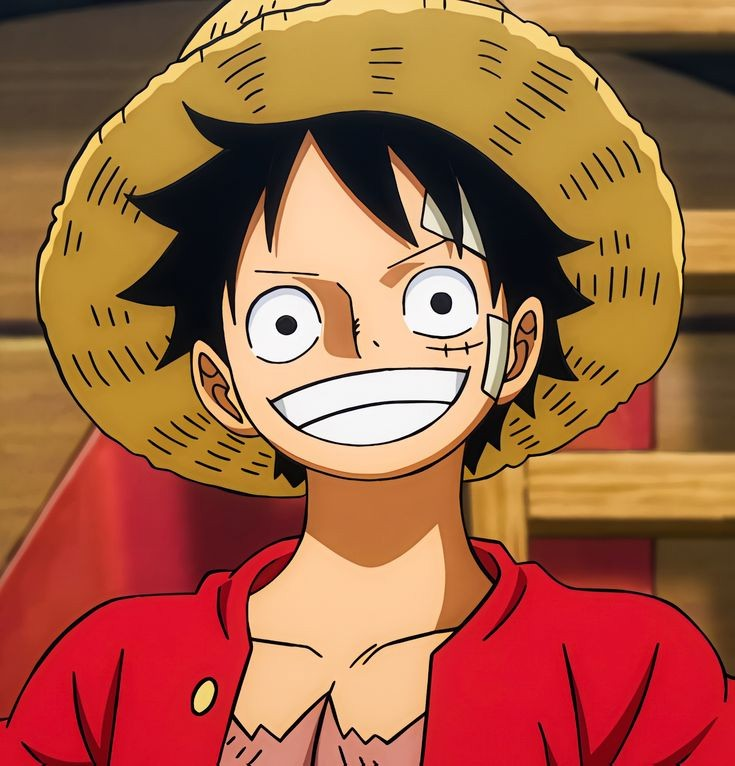
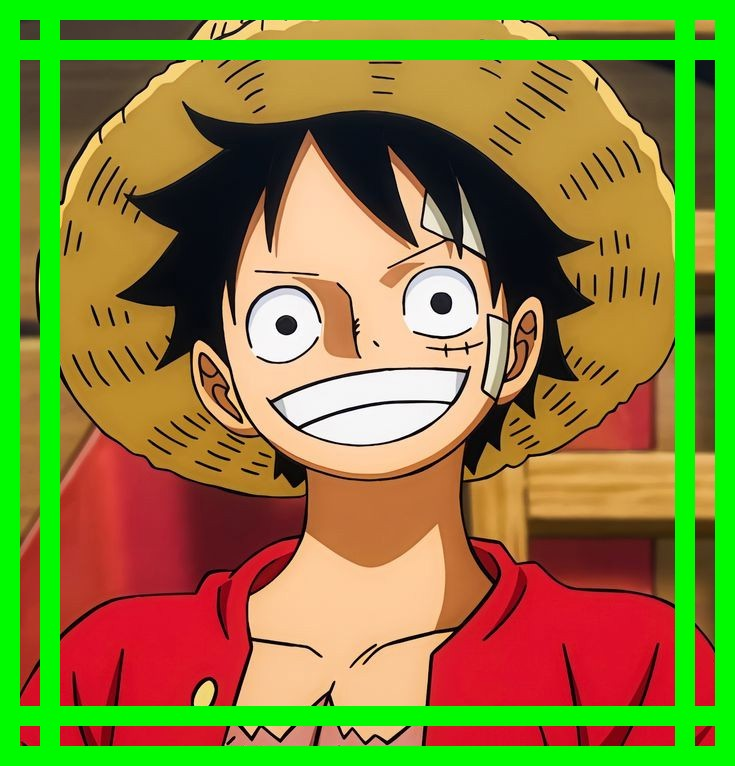
added apply frame filter

Changed region(s): [[0.0, 0.0, 1.0, 1.0]]

diff --git a/src/filters.cpp b/src/filters.cpp
@@ -71,5 +71,38 @@ void  applyRotateImage(Image &image, int angle) {
   image = rot; 
 }
 
+
+void applyAddColoredFrame(Image &image, int thickness, int r, int g, int b, bool decoration) {
+  if (!decoration) {
+    int rgb[3] = {r, g, b};
+    int m = image.width;
+    int n = image.height;
+    for (int i = 0; i < m; ++i) {
+      for (int j = 0; j < n; ++j) {
+        if (i < thickness || i >= (m - thickness) || j < thickness || j >= n - thickness) { 
+          for (int k = 0; k < 3; ++k) {
+            image(i, j, k) = rgb[k]; 
+          }
+        }
+      }
+    } 
+  } else { 
+    int rgb[3] = {r, g, b};
+    int m = image.width;
+    int n = image.height;
+    for (int i = 0; i < m; ++i) {
+      for (int j = 0; j < n; ++j) {
+        if (i < thickness || i >= m - thickness || j < thickness || j >= n - thickness ||  ( (i < thickness * 3 && i >= thickness * 2) || 
+           (i >= m - thickness * 3 && i < m - thickness * 2)     || 
+           (j < thickness * 3 && j >= thickness * 2)             || 
+           (j >= n - thickness * 3 && j < n - thickness * 2) ) ) { 
+            for (int k = 0; k < 3; ++k) {
+            image(i, j, k) = rgb[k]; 
+          }
+        }
+      }
+    } 
+  }
+}
 // ====================================================================
 

diff --git a/include/filters.h b/include/filters.h
@@ -23,7 +23,7 @@ void applyDetectEdges(Image &image);  // Filter 11
 // ================= Ammen's Filters =================
 void applyInvertColors(Image &image);  // Filter 3
 void applyRotateImage(Image &image, int angle);  // Filter 6
-void applyAddColoredFrame(Image &image, int thickness, int r, int g, int b);  // Filter 9
+void applyAddColoredFrame(Image &image, int thickness, int r, int g, int b, bool decoration);  // Filter 9
 void applyApplyBlur(Image &image, int intensity);  // Filter 12
 
 

diff --git a/src/main.cpp b/src/main.cpp
@@ -32,7 +32,7 @@ int main() {
     // // ================= Ammen's Filters =================
     // applyInvertColors(image);  // Filter 3
     // applyRotateImage(image, 90);  // Filter 6
-    // applyAddColoredFrame(image, 5, 255, 0, 0);  // Filter 9
+    // applyAddColoredFrame(image, 20, 0, 250, 0, true);  // Filter 9
     // applyApplyBlur(image, 5);  // Filter 12
  
     cout << "Pls enter image name to store new image (with extension): ";
